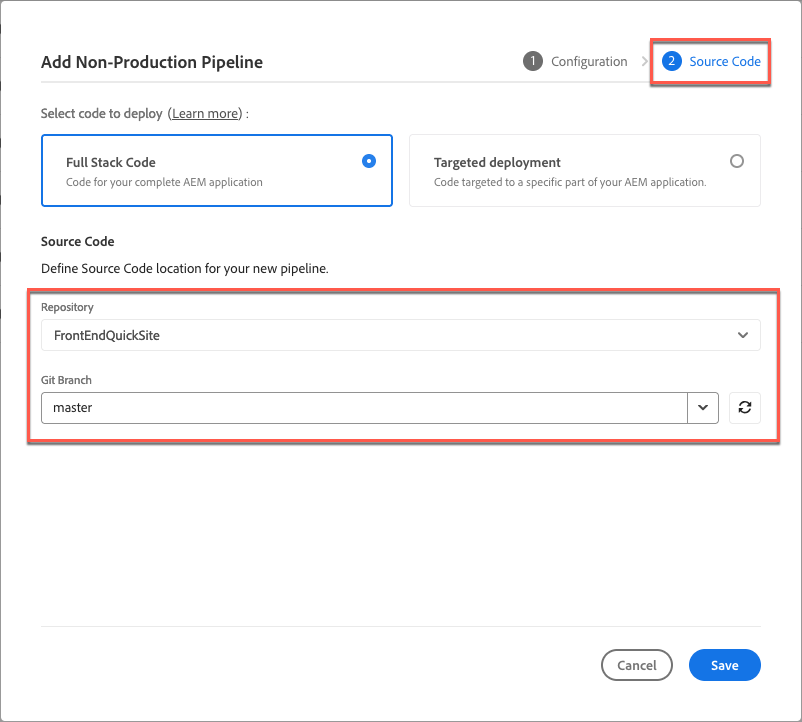
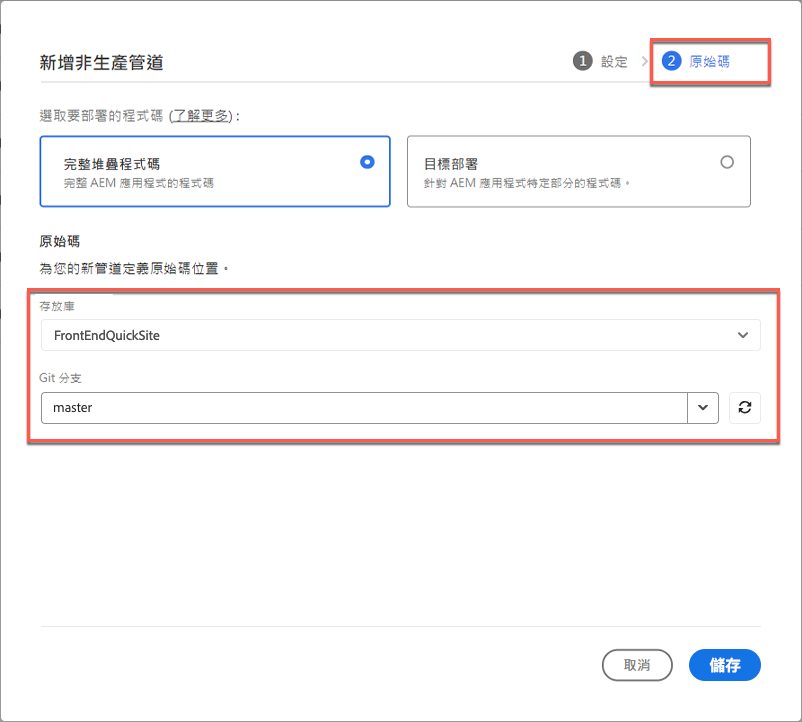
Updated by task 'AUTO_HANDOFF_1728065266587'  Changes for core/source commit https://git.corp.adobe.com/AdobeDocs/experience-manager-cloud-manager.en/commit/593ab468fb09900d061a4d820b8a1a33e2047237

diff --git a/help/managing-code/external-repositories.md b/help/managing-code/external-repositories.md
@@ -1,17 +1,17 @@
 ---
-title: 在Cloud Manager中新增外部存放庫（早期採用者）
-description: 瞭解如何將外部存放庫新增到Cloud Manager。 Cloud Manager支援與GitHub、GitLab和Bitbucket存放庫整合。
+title: 在 Cloud Manager 中新增外部存放庫 (早期採用者)
+description: 了解如何將外部存放庫新增至 Cloud Manager。Cloud Manager 支援與 GitHub、GitLab 和 Bitbucket 存放庫整合。
 source-git-commit: 054c214be3c8c6e8a8bd4691b70ae2098263ef5b
-workflow-type: tm+mt
+workflow-type: ht
 source-wordcount: '740'
-ht-degree: 5%
+ht-degree: 100%
 
 ---
 
 
-# 在Cloud Manager中新增外部存放庫 {#external-repositories}
+# 在 Cloud Manager 中新增外部存放庫 {#external-repositories}
 
-瞭解如何將外部存放庫新增到Cloud Manager。 Cloud Manager支援與GitHub、GitLab和Bitbucket存放庫整合。
+了解如何將外部存放庫新增至 Cloud Manager。Cloud Manager 支援與 GitHub、GitLab 和 Bitbucket 存放庫整合。
 
 >[!NOTE]
 >
@@ -19,74 +19,74 @@ ht-degree: 5%
 
 ## 設定外部存放庫
 
-在Cloud Manager中設定外部存放庫包含三個步驟：
+在 Cloud Manager 中設定存放庫包含三個步驟：
 
-1. [新增外部存放庫](#add-external-repo)至選取的方案。
-1. 提供外部存放庫的存取權杖。
-1. 驗證外部存放庫的所有權。
+1. [新增外部存放庫](#add-external-repo)至所選方案。
+1. 為外部存放庫提供存取權杖。
+1. 驗證外部存放庫的擁有權。
 
 
 ## 新增外部存放庫 {#add-ext-repo}
 
 1. 在 [my.cloudmanager.adobe.com](https://my.cloudmanager.adobe.com/) 登入 Cloud Manager 並選取適當的組織。
 
-1. 在**[我的程式](/help/getting-started/navigation.md#my-programs-console)主控台上，選取要連結外部存放庫的程式。
+1. 在**[我的方案](/help/getting-started/navigation.md#my-programs-console)主控台上，選取您想要連結的外部存放庫。
 
 
-1. 在側邊功能表的&#x200B;**服務**&#x200B;下方，選取![資料夾圖示](https://spectrum.adobe.com/static/icons/workflow_18/Smock_Folder_18_N.svg) **存放庫**。
+1. 在側邊選單中，在&#x200B;**服務**&#x200B;下，選取![資料夾圖示](https://spectrum.adobe.com/static/icons/workflow_18/Smock_Folder_18_N.svg)**存放庫**。
 
-   ![存放庫頁面](/help/managing-code/assets/repositories-tab.png)
+   ![儲存庫頁面](/help/managing-code/assets/repositories-tab.png)
 
-1. 在&#x200B;**存放庫**&#x200B;頁面的右上角附近，按一下&#x200B;**新增存放庫**。
+1. 在右上角附近的&#x200B;**存放庫**&#x200B;頁面，按一下&#x200B;**新增存放庫**。
 
-1. 在&#x200B;**新增存放庫**&#x200B;對話方塊中，選取&#x200B;**私人存放庫**&#x200B;以將外部Git存放庫連結到您的程式。
+1. 在&#x200B;**新增存放庫**&#x200B;對話框中，選取&#x200B;**私人存放庫**，將外部 Git 存放庫連結至您的方案。
 
    ![新增自己的存放庫](/help/managing-code/assets/repositories-private-repo-type.png)
 
-1. 在每個欄位中，提供關於存放庫的下列詳細資訊：
+1. 在每個對應欄位中，提供關於存放庫的下列詳細資料：
 
    | 欄位 | 說明 |
    | --- | --- |
-   | **存放庫名稱** | 必填。 您新存放庫的表現式名稱。 |
-   | **存放庫URL** | 必填。 存放庫的URL。<br><br>如果您使用GitHub託管的存放庫，路徑必須在`.git`結尾。<br>例如，*`https://github.com/org-name/repo-name.git`* （URL路徑僅供插圖之用）。<br><br>如果您使用外部存放庫，則必須使用下列URL路徑格式：<br>`https://git-vendor-name.com/org-name/repo-name.git`<br>或<br>`https://self-hosted-domain/org-name/repo-name.git`<br>並符合您的Git廠商。 |
-   | **選取存放庫型別** | 必填。 選取您正在使用的存放庫型別： **GitHub**、**GitLab**&#x200B;或&#x200B;**BitBucket**。 如果上述存放庫URL路徑包含Git供應商名稱（例如GitLab或Bitbucket），系統就會預先為您選取存放庫型別。 |
-   | **說明** | 選填。 存放庫的詳細說明。 |
+   | **存放庫名稱** | 必要。您的新存放庫的生動名稱。 |
+   | **存放庫 URL** | 必要。存放庫的 URL。<br><br> 如果您使用 GitHub 託管的存放庫，則路徑為以 `.git` 結尾。<br>例如，*`https://github.com/org-name/repo-name.git`*(URL 路徑僅用於插圖目的)。<br><br>如果您正在使用外部存放庫，則必須遵循下列 URL 路徑格式：<br>`https://git-vendor-name.com/org-name/repo-name.git`<br> 或<br>`https://self-hosted-domain/org-name/repo-name.git`<br>，與您的 Git 廠商相符。 |
+   | **選取存放庫類型** | 必要。選取您所使用的存放庫類型：**GitHub**、**GitLab** 或 **BitBucket**。若上述存放庫 URL 路徑包含 Git 廠商名稱，例如 GitLab 或 Bitbucket，則系統已為您預先選擇存放庫類型。 |
+   | **說明** | 選擇性。存放庫的詳細描述。 |
 
 1. 選取&#x200B;**儲存**&#x200B;以新增存放庫。
 
-1. 在&#x200B;**私人存放庫所有權驗證**&#x200B;對話方塊中，提供存取權杖以驗證外部存放庫的所有權，以便您可以存取它。
+1. 在&#x200B;**私人存放庫擁有權驗證**&#x200B;對話框中，提供存取權杖以驗證外部存放庫的擁有權，讓您可以進行存取。
 
-   ![選取存放庫的現有存取權杖](/help/managing-code/assets/repositories-exisiting-access-token.png)
-   *選取BitBucket儲存庫的現有存取權杖。*
+   ![為存放庫選取現有的存取權杖](/help/managing-code/assets/repositories-exisiting-access-token.png)
+   *為 BitBucket 存放庫選取現有的存取權杖。*
 
-   | 權杖型別 | 說明 |
+   | 權杖類型 | 說明 |
    | --- | --- |
-   | **使用現有的存取權杖** | 如果您已為貴組織提供存放庫存取權杖，並擁有多個存放庫的存取權，則可選取現有權杖。 使用&#x200B;**Token Name**&#x200B;下拉式清單，選擇要套用至存放庫的權杖。 否則，請新增存取權杖。 |
-   | **新增存取權杖** | **存放庫型別： GitHub**<br>·在&#x200B;**Token名稱**&#x200B;文字欄位中，輸入您正在建立的存取權杖名稱。<br>·依照[GitHub檔案](https://docs.github.com/en/enterprise-server@3.14/authentication/keeping-your-account-and-data-secure/managing-your-personal-access-tokens)中的指示建立個人存取權杖。<br>·需要的許可權：<br>  · `Read access to metadata`。<br>  · `Read and write access to code and pull requests`。<br>·在&#x200B;**存取權杖**&#x200B;欄位中，貼上您剛才建立的權杖。 |
-   |  | **存放庫型別： GitLab**<br>·在&#x200B;**Token Name**&#x200B;文字欄位中，輸入您正在建立的存取權杖名稱。<br>·依照[GitLab檔案](https://docs.gitlab.com/ee/user/profile/personal_access_tokens.html)中的指示建立個人存取權杖。<br>·需要的許可權：<br>  · `api`<br>  · `read_api`<br>  · `read_repository`<br>  · `write_repository`<br>·在&#x200B;**存取權杖**&#x200B;欄位中，貼上您剛才建立的權杖。 |
-   |  | **儲存庫型別： Bitbucket**<br>·在&#x200B;**權杖名稱**&#x200B;文字欄位中，輸入您正在建立的存取權杖名稱。<br>·使用[Bitbucket檔案](https://support.atlassian.com/bitbucket-cloud/docs/create-a-repository-access-token/)建立存放庫存取權杖。<br>·需要的許可權：<br>  · `Read and write access to code and pull requests`。 |
+   | **使用現有的存取權杖** | 如果您已為組織提供存放庫存取權杖，且有權存取多個存放庫，您可以選取現有的權杖。使用&#x200B;**權杖名稱**&#x200B;下拉清單，選取想要套用至存放庫的權杖。否則，請新增新的存取權杖。 |
+   | **新增新的存取權杖** | **存放庫類型：GitHub**<br>• 在&#x200B;**權杖名稱**&#x200B;文字欄位，輸入您建立的存取權杖名稱。<br>• 依照 [GitHub 文件](https://docs.github.com/en/enterprise-server@3.14/authentication/keeping-your-account-and-data-secure/managing-your-personal-access-tokens)中的指示，建立個人存取權杖。<br>• 需要權限：<br>  • `Read access to metadata`。<br>  • `Read and write access to code and pull requests`。<br>• 在&#x200B;**存取權杖**&#x200B;欄位，貼上您所建立的權杖。 |
+   |  | **存放庫類型：GitLab**<br>• 在&#x200B;**權杖名稱**&#x200B;文字欄位，輸入您建立的存取權杖名稱。<br>• 依照 [GitLab 文件](https://docs.gitlab.com/ee/user/profile/personal_access_tokens.html)中的指示，建立個人存取權杖。<br>• 需要權限：<br>  • `api`<br>  • `read_api`<br>  • `read_repository`<br>  • `write_repository`<br>• 在&#x200B;**存取權杖**&#x200B;欄位，貼上您所建立的權杖。 |
+   |  | **存放庫類型：Bitbucket**<br>• 在&#x200B;**權杖名稱**&#x200B;文字欄位，輸入您建立的存取權杖名稱。<br>• 使用 [Bitbucket 文件](https://support.atlassian.com/bitbucket-cloud/docs/create-a-repository-access-token/)建立存放庫存取權杖。<br>• 需要權限：<br>  • `Read and write access to code and pull requests`。 |
 
    >[!NOTE]
    >
-   >功能&#x200B;**新增存取權杖**&#x200B;目前處於早期採用者階段。 正在規劃其他功能。 因此，存取權杖的必要許可權可能會變更。 此外，管理權杖的使用者介面可能會更新，其中可能包括權杖到期日等功能。 以及自動化檢查，以確保連結至存放庫的Token保持有效。
+   >**新增新的存取權杖**&#x200B;功能目前在「早期採用者」階段。其他的功能正在規劃中。因此，存取權杖所需的權限可能會變更。另外，用於管理權杖的使用者介面可能會更新，可能包括權杖過期日期等功能。並且，自動檢查以確保連結至存放庫的權杖保持有效。
 
-1. 按一下&#x200B;**驗證**。
+1. 按一下「**驗證**」。
 
-驗證後，外部存放庫已準備好使用並連結到管道。
+驗證之後，外部存放庫即可使用並連結至管道。
 
-## 將已驗證的外部存放庫連結至管道 {#validate-ext-repo}
+## 將驗證的外部存放庫連結至管道。 {#validate-ext-repo}
 
 1. 新增或編輯管道：
    * [新增生產管道](/help/using/production-pipelines.md)
    * [新增非生產管道](/help/using/non-production-pipelines.md)
    * [編輯管道](/help/using/managing-pipelines.md#editing-pipelines)
 
-   ![管道的原始程式碼存放庫和Git分支](/help/managing-code/assets/pipeline-repo-gitbranch.png)
-   *新增非生產管道對話方塊，其中包含選取的存放庫和Git分支，*
+   ![管道的來源代碼存放庫和 Git 分支](/help/managing-code/assets/pipeline-repo-gitbranch.png)
+   *新增非生產管道對話框，其中包含選取的存放庫和 Git 分支，*
 
-1. 新增或編輯管道時，若要為您新管道或現有管道指定&#x200B;**Source程式碼**&#x200B;位置，請從&#x200B;**存放庫**&#x200B;下拉式清單中選擇您想要使用的外部存放庫。
+1. 新增或編輯管道時，若要指定新管道或現有管道的&#x200B;**來源代碼**&#x200B;位置，請從&#x200B;**存放庫**&#x200B;下拉清單中選取要使用的外部存放庫。
 
-1. 在&#x200B;**Git分支**&#x200B;下拉式清單中，選取分支作為管道的來源。
+1. 在 **Git 分支**&#x200B;下拉清單中，選取分支作為管道的來源。
 
 1. 按一下「**儲存**」。
 
@@ -99,4 +99,4 @@ ht-degree: 5%
 ## 限制
 
 * 外部存放庫無法連結到設定管道。
-* 使用外部存放庫的管道（不包括GitHub託管的存放庫）和&#x200B;**部署觸發程式**&#x200B;選項&#x200B;[!UICONTROL **在Git變更**]&#x200B;上，觸發程式不會自動啟動。 必須手動啟動。
+* 使用外部存放庫 (不包括 GitHub 託管存放庫) 和&#x200B;**部署觸發程序**&#x200B;選項「[!UICONTROL **在 Git 變更時**]」，觸發程序不會自動啟動。它們必須手動啟動。

diff --git a/help/release-notes/current.md b/help/release-notes/current.md
@@ -3,9 +3,9 @@ title: Cloud Manager 2024.10.0 版發行說明
 description: 了解 Cloud Manager 2024.10.0 的發行說明。
 feature: Release Information
 source-git-commit: 74e8f7c0f3896e0e33a02b62c003db322c0d50d8
-workflow-type: tm+mt
+workflow-type: ht
 source-wordcount: '369'
-ht-degree: 24%
+ht-degree: 100%
 
 ---
 
@@ -23,44 +23,44 @@ ht-degree: 24%
 
 <!-- SAVE FOR FUTURE POSSIBLE USE No notable bugs or features for the September release of Cloud Manager. -->
 
-[!UICONTROL Cloud Manager] 2024.10.0的發行日期為2024年10月3日。
+[!UICONTROL Cloud Manager] 2024.10.0 的發佈日期為 2024 年 10 月 3 日。
 
-下一版本計畫於2024年11月14日發行。
+下一個版本計劃於 2024 年 11 月 14 日發佈。
 
 
 
 ## 新增功能 {#what-is-new}
 
-* <!-- BOTH CS & AMS --> Cloud Manager中使用的AEM原型版本現在更新至版本26。 請參閱[https://github.com/adobe/aem-project-archetype/releases](https://github.com/adobe/aem-project-archetype/releases)
+* <!-- BOTH CS & AMS --> Cloud Manager 中使用的 AEM Archetype 版本現已更新至 26 版。請參閱 [https://github.com/adobe/aem-project-archetype/releases](https://github.com/adobe/aem-project-archetype/releases)
 <!-- (CMGR-59817) -->
 
 
 
 ## 早期採用方案 {#early-adoption}
 
-成為Cloud Manager早期採用計畫的一部分，並有機會測試即將推出的功能。
+成為 Cloud Manager 早期採用方案的一部分，並有機會測試即將推出的功能。
 
-### 自備Git — 現在支援GitLab和Bitbucket {#gitlab-bitbucket}
+### 自備 Git - 現在支援 GitLab 和 Bitbucket {#gitlab-bitbucket}
 
 <!-- BOTH CS & AMS -->
 
-**自攜Git**&#x200B;功能已擴充為包含對外部存放庫（例如GitLab和Bitbucket）的支援。 除了這項新支援之外，私人和企業GitHub存放庫也提供現有支援。 新增這些新存放庫時，您也可以將其直接連結至您的管道。 您可以在公用雲端平台上或您的私人雲端或基礎架構內託管這些存放庫。 此整合也免除了與Adobe存放庫持續進行程式碼同步的需求，並可讓您在將提取請求合併至主要分支之前先驗證提取請求。
+**自備 Git** 功能已進行擴展，包括對 GitLab 和 Bitbucket 等外部存放庫的支援。這項新的支援功能是對私人和企業 GitHub 存放庫現有支援的補充。當您新增這些新存放庫時，也可以將它們直接連結到您的管道。您可以將這些存放庫託管在公有雲平台上或私有雲或基礎架構內。這項整合也消除了與 Adobe 存放庫持續進行代碼同步的需求，並提供了在提取請求合併到主分支之前，驗證提取請求的功能。
 
-請參閱[在Cloud Manager](/help/managing-code/external-repositories.md)中新增外部存放庫。
+請查看[在 Cloud Manager 中新增外部存放庫](/help/managing-code/external-repositories.md)。
 
 ![新增存放庫對話框](/help/release-notes/assets/repositories-add-release-notes.png)
 
 >[!NOTE]
 >
->目前，GitHub託管的存放庫僅能執行現成可用的提取要求程式碼品質檢查，不過也正在研究更新以將此功能擴充至其他Git廠商。
+>目前，立即可用的提取請求代碼品質檢查僅限於 GitHub 託管的存放庫，但我們正在進行一項更新以將此功能擴展到其他 Git 供應商。
 
-如果您有興趣測試這項新功能並分享您的意見回饋，請從與Adobe ID相關聯的電子郵件地址傳送電子郵件至[Grp-CloudManager_BYOG@adobe.com](mailto:Grp-CloudManager_BYOG@adobe.com)。 請務必加入您要使用的Git平台，以及您是要使用私人/公有或企業存放庫結構。
+如果您有興趣測試此新功能並分享您的意見回饋，請使用與您的 Adobe ID 關聯的電子郵件地址向 [Grp-CloudManager_BYOG@adobe.com](mailto:Grp-CloudManager_BYOG@adobe.com) 傳送電子郵件。請務必包含您要使用的 Git 平台以及您是否使用私人/公開或企業存放庫結構。
 
 ### 僅限中繼和僅限生產的管道 {#staging-production-only-pipelines}
 
-Adobe宣佈推出[僅限中繼及僅限生產管道](/help/using/stage-prod-only.md)的支援。 這項新功能可讓您將全端生產部署管道劃分為更小、更專業的部署。
+Adobe 宣布推出對 [僅階段和僅生產管道](/help/using/stage-prod-only.md)的支援。 這項新功能可讓您將全端生產部署管道劃分為更小、更專業的部署。
 
-如果您想要測試此功能並提供意見回饋，請透過與Adobe ID相關聯的電子郵件地址傳送電子郵件[Grp-cloudmanager_splitpipelines@adobe.com](mailto:Grp-cloudmanager_splitpipelines@adobe.com)。
+如果您想要測試此新功能並提供意見回饋，請使用與您的 Adobe ID 關聯的電子郵件地址向 [Grp-cloudmanager_splitpipelines@adobe.com](mailto:Grp-cloudmanager_splitpipelines@adobe.com) 傳送電子郵件。
 
 <!-- ## Bug fixes
 

diff --git a/help/main-toc/TOC.md b/help/main-toc/TOC.md
@@ -8,9 +8,9 @@ feature-set: Experience Manager Cloud Manager, Experience Manager
 feature: Cloud Manager
 role: Admin
 source-git-commit: 1209faf71edbd74cd87acfe24ec438b98ddd4a3a
-workflow-type: tm+mt
+workflow-type: ht
 source-wordcount: '342'
-ht-degree: 71%
+ht-degree: 100%
 
 ---
 
@@ -42,11 +42,11 @@ ht-degree: 71%
       + [組建環境](/help/getting-started/build-environment.md)
    + [設定分支](/help/getting-started/configuring-branches.md)
    + [Dispatcher 設定](/help/getting-started/dispatcher-configurations.md)
-+ 使用{#using}
++ 使用 {#using}
    + CI/CD 管道 {#pipelines}
       + [設定生產管道](/help/using/production-pipelines.md)
       + [設定非生產管道](/help/using/non-production-pipelines.md)
-      + [分割階段和僅限生產配管（早期採用者）](/help/using/stage-prod-only.md)
+      + [分割階段以及僅限 Prod 的管道 (早期採用者)](/help/using/stage-prod-only.md)
       + [管理管道](/help/using/managing-pipelines.md)
    + [程式碼部署](/help/using/code-deployment.md)
    + [程式碼品質測試](/help/using/code-quality-testing.md)
@@ -57,17 +57,17 @@ ht-degree: 71%
    + [通知](/help/using/notifications.md)
    + [自訂程式碼品質規則](/help/using/custom-code-quality-rules.md)
    + [內容複製](/help/using/content-copy.md)
-+ 管理程式碼{#managing-code}
++ 管理代碼 {#managing-code}
    + [管理 Cloud Manager 中的存放庫](/help/managing-code/managing-repositories.md)
    + [存放庫存取資訊](/help/managing-code/accessing-repositories.md)
-   + [新增Adobe存放庫](/help/managing-code/adobe-repositories.md)
+   + [新增 Adobe 存放庫](/help/managing-code/adobe-repositories.md)
    + [新增私人存放庫](/help/managing-code/private-repositories.md)
-   + [新增外部存放庫（早期採用者）](/help/managing-code/external-repositories.md)
+   + [新增外部存放庫 (早期採用者)](/help/managing-code/external-repositories.md)
    + [Git 子模組支援](/help/managing-code/git-submodules.md)
    + [GitHub 檢查設定](/help/managing-code/github-check-config.md)
    + [GitHub 檢查附註](/help/managing-code/github-annotations.md)
    + [Maven 專案版本處理](/help/managing-code/maven-project-version.md)
-   + [與Git整合](/help/managing-code/git-integration.md)
+   + [與 Git 整合](/help/managing-code/git-integration.md)
    + [使用多個 Git 存放庫](/help/managing-code/multiple-git-repos.md)
 + 產品更新精靈 {#product-update-wizard}
    + [概觀](/help/product-update-wizard/overview.md)

diff --git a/help/using/managing-pipelines.md b/help/using/managing-pipelines.md
@@ -1,18 +1,18 @@
 ---
 title: 管理管道
-description: 瞭解如何管理現有管道，包括執行、編輯和刪除它們。
+description: 了解如何管理現有管道，包括執行、編輯它們，並將其刪除。
 exl-id: e36420d2-57c5-4375-99fb-dd47c1c8bffd
 source-git-commit: 9d910e1b1a4aad000a8389ddc22ce380bbccd4ef
-workflow-type: tm+mt
+workflow-type: ht
 source-wordcount: '840'
-ht-degree: 89%
+ht-degree: 100%
 
 ---
 
 
 # 管理管道 {#managing-pipelines}
 
-瞭解如何管理現有管道，包括執行、編輯和刪除它們。
+了解如何管理現有管道，包括執行、編輯它們，並將其刪除。
 
 ## 管道資訊卡 {#pipeline-card}
 
@@ -36,11 +36,11 @@ ht-degree: 89%
 
 ## 管道頁面 {#pipelines}
 
-**管道**&#x200B;頁面會顯示所選方案的所有管道完整清單。 此清單很實用，因其提供的資訊比[管道資訊卡](#pipeline-card)所提供的更完整。
+**管道**&#x200B;頁面顯示所選方案所有管道的完整清單。此清單很實用，因其提供的資訊比[管道資訊卡](#pipeline-card)所提供的更完整。
 
 1. 在 [my.cloudmanager.adobe.com](https://my.cloudmanager.adobe.com/) 登入 Cloud Manager 並選取適當的組織和方案。
 
-1. 從&#x200B;**方案總覽**&#x200B;頁面，按一下&#x200B;**管道**&#x200B;索引標籤以切換至&#x200B;**管道**&#x200B;頁面。
+1. 從&#x200B;**方案概觀**&#x200B;頁面，按一下&#x200B;**管道**&#x200B;標籤，以切換到&#x200B;**管道**&#x200B;頁面。
 
 1. 在這裡，您可以看到方案所有管道的清單，並啟動和停止管道執行，就像在&#x200B;**管道卡**&#x200B;中一樣。
 
@@ -52,11 +52,11 @@ ht-degree: 89%
 
 ## 活動頁面 {#activity}
 
-**活動**&#x200B;頁面會顯示所選方案的所有管道執行的完整清單。
+**活動**&#x200B;頁面顯示所選方案所有管道執行的完整清單。
 
 1. 在 [my.cloudmanager.adobe.com](https://my.cloudmanager.adobe.com/) 登入 Cloud Manager 並選取適當的組織和方案。
 
-1. 從&#x200B;**方案總覽**&#x200B;頁面，按一下&#x200B;**活動**&#x200B;索引標籤以切換至&#x200B;**活動**&#x200B;頁面。
+1. 從&#x200B;**方案概觀**&#x200B;頁面，按一下&#x200B;**活動**&#x200B;標籤，以切換到&#x200B;**活動**&#x200B;頁面。
 
 1. 在這裡，您可以看到方案所有管道執行的清單，包括目前和歷史執行。
 

diff --git a/help/using/non-production-pipelines.md b/help/using/non-production-pipelines.md
@@ -1,11 +1,11 @@
 ---
 title: 新增非生產管道
-description: 了解如何使用 Cloud Manager 建立和設定非生產管道以部署程式碼。
+description: 了解如何使用 Cloud Manager 建立和設定非生產管道以部署代碼。
 exl-id: ccf4b4a2-6e29-4ede-821c-36318b568e5c
 source-git-commit: 1209faf71edbd74cd87acfe24ec438b98ddd4a3a
-workflow-type: tm+mt
+workflow-type: ht
 source-wordcount: '688'
-ht-degree: 98%
+ht-degree: 100%
 
 ---
 
@@ -29,9 +29,9 @@ ht-degree: 98%
 
 >[!NOTE]
 >
->與管道相關的 Git 存放庫必須具有至少一個分支，且已完成[方案設定](/help/getting-started/program-setup.md)，才能進行管道設定。如欲了解如何在 Cloud Manager 中新增和管理存放庫，請參閱「[Cloud Manager 存放庫](/help/managing-code/managing-repositories.md)」。
+>與管道相關的 Git 存放庫必須具有至少一個分支，且已完成[方案設定](/help/getting-started/program-setup.md)，才能進行管道設定。如欲了解如何在 Cloud Manager 中新增和管理存放庫，請參閱 [Cloud Manager 存放庫](/help/managing-code/managing-repositories.md)。
 
-## 新增新的非生產管道 {#add-non-production-pipeline}
+## 新增一個全新非生產管道 {#add-non-production-pipeline}
 
 設定好方案並擁有至少一個使用 Cloud Manager UI 的環境後，您就可以依照以下步驟著手新增非生產管道了。
 

diff --git a/help/managing-code/accessing-repositories.md b/help/managing-code/accessing-repositories.md
@@ -3,7 +3,7 @@ title: 存放庫存取資訊
 description: 了解如何使用 Cloud Manager 中的自助 Git 帳戶管理存取和管理您的 Adobe 託管 Git 存放庫。
 exl-id: 1cc88c82-67c7-4553-a1b8-d2ab22be466c
 source-git-commit: 04fbc4a3fdba8b108055d66a4fdb1a31994cb18e
-workflow-type: tm+mt
+workflow-type: ht
 source-wordcount: '381'
 ht-degree: 100%
 

diff --git a/help/using/production-pipelines.md b/help/using/production-pipelines.md
@@ -3,9 +3,9 @@ title: 新增生產管道
 description: 了解如何使用 Cloud Manager 建立和設定生產管道，以部署程式碼。
 exl-id: d489fa3c-df1e-480b-82d0-ac8cce78a710
 source-git-commit: 1209faf71edbd74cd87acfe24ec438b98ddd4a3a
-workflow-type: tm+mt
+workflow-type: ht
 source-wordcount: '1249'
-ht-degree: 99%
+ht-degree: 100%
 
 ---
 

diff --git a/help/release-notes/2024/2024-9-0.md b/help/release-notes/2024/2024-9-0.md
@@ -3,7 +3,7 @@ title: Cloud Manager 2024.9.0 版發行說明
 description: 了解 Cloud Manager 2024.9.0 的發行說明。
 feature: Release Information
 source-git-commit: 9d910e1b1a4aad000a8389ddc22ce380bbccd4ef
-workflow-type: tm+mt
+workflow-type: ht
 source-wordcount: '184'
 ht-degree: 100%
 
